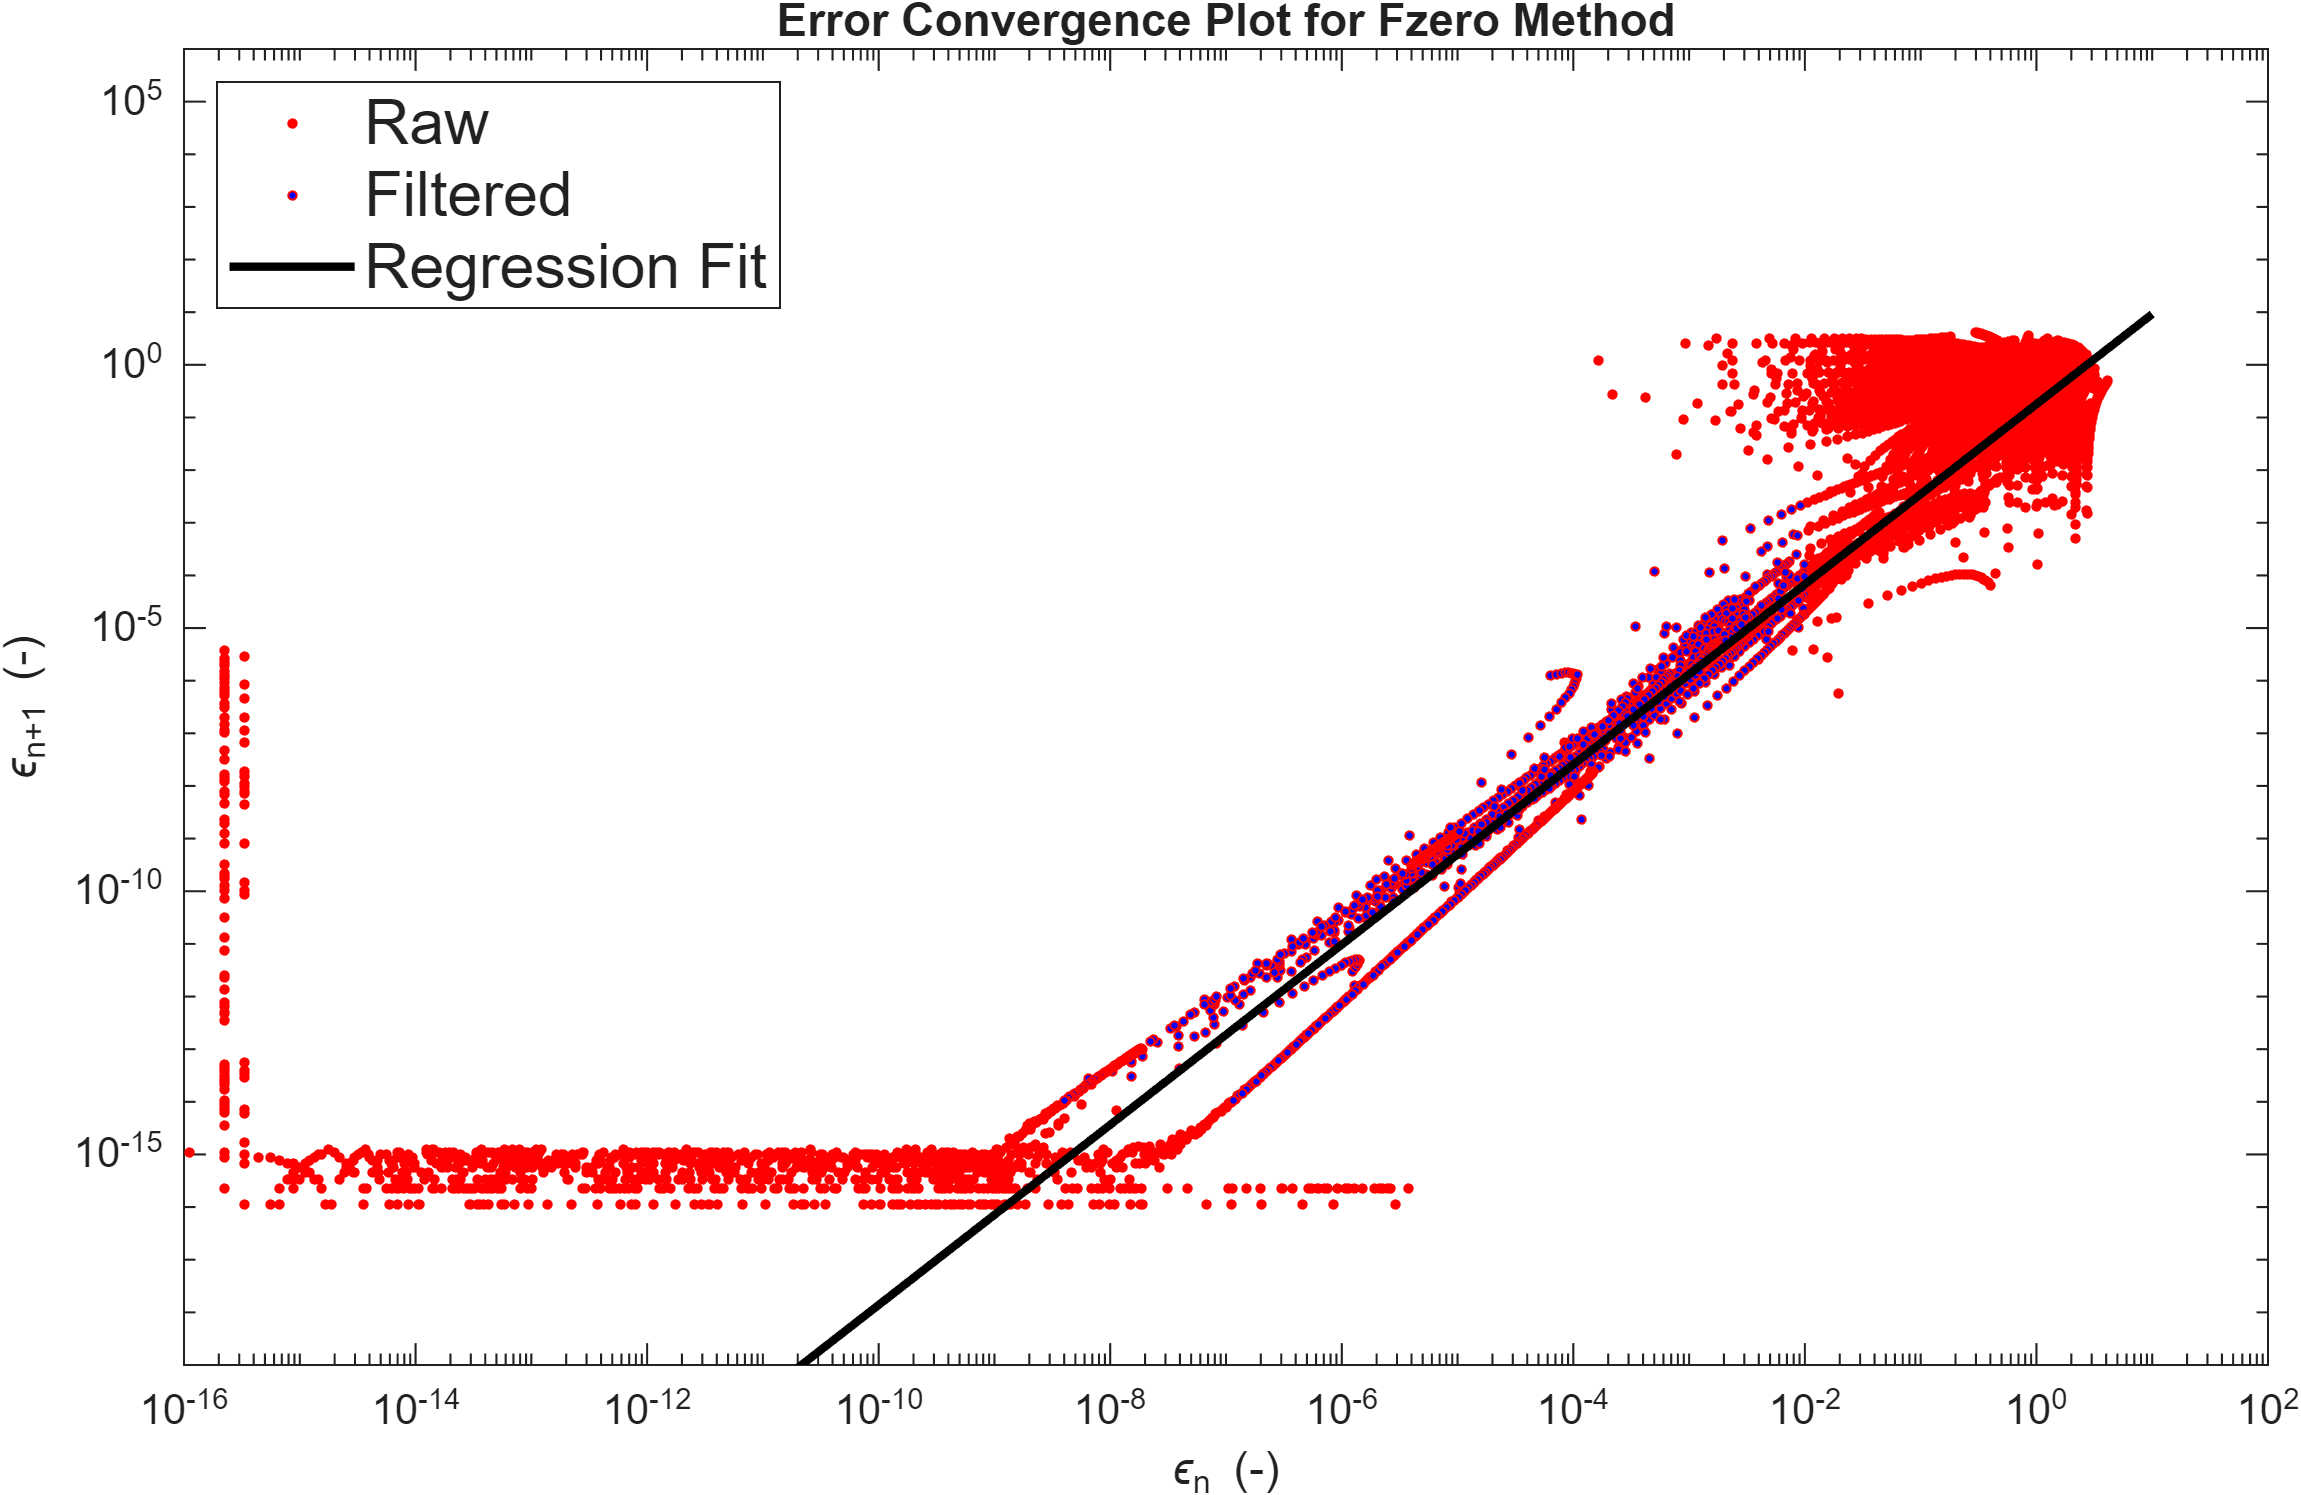
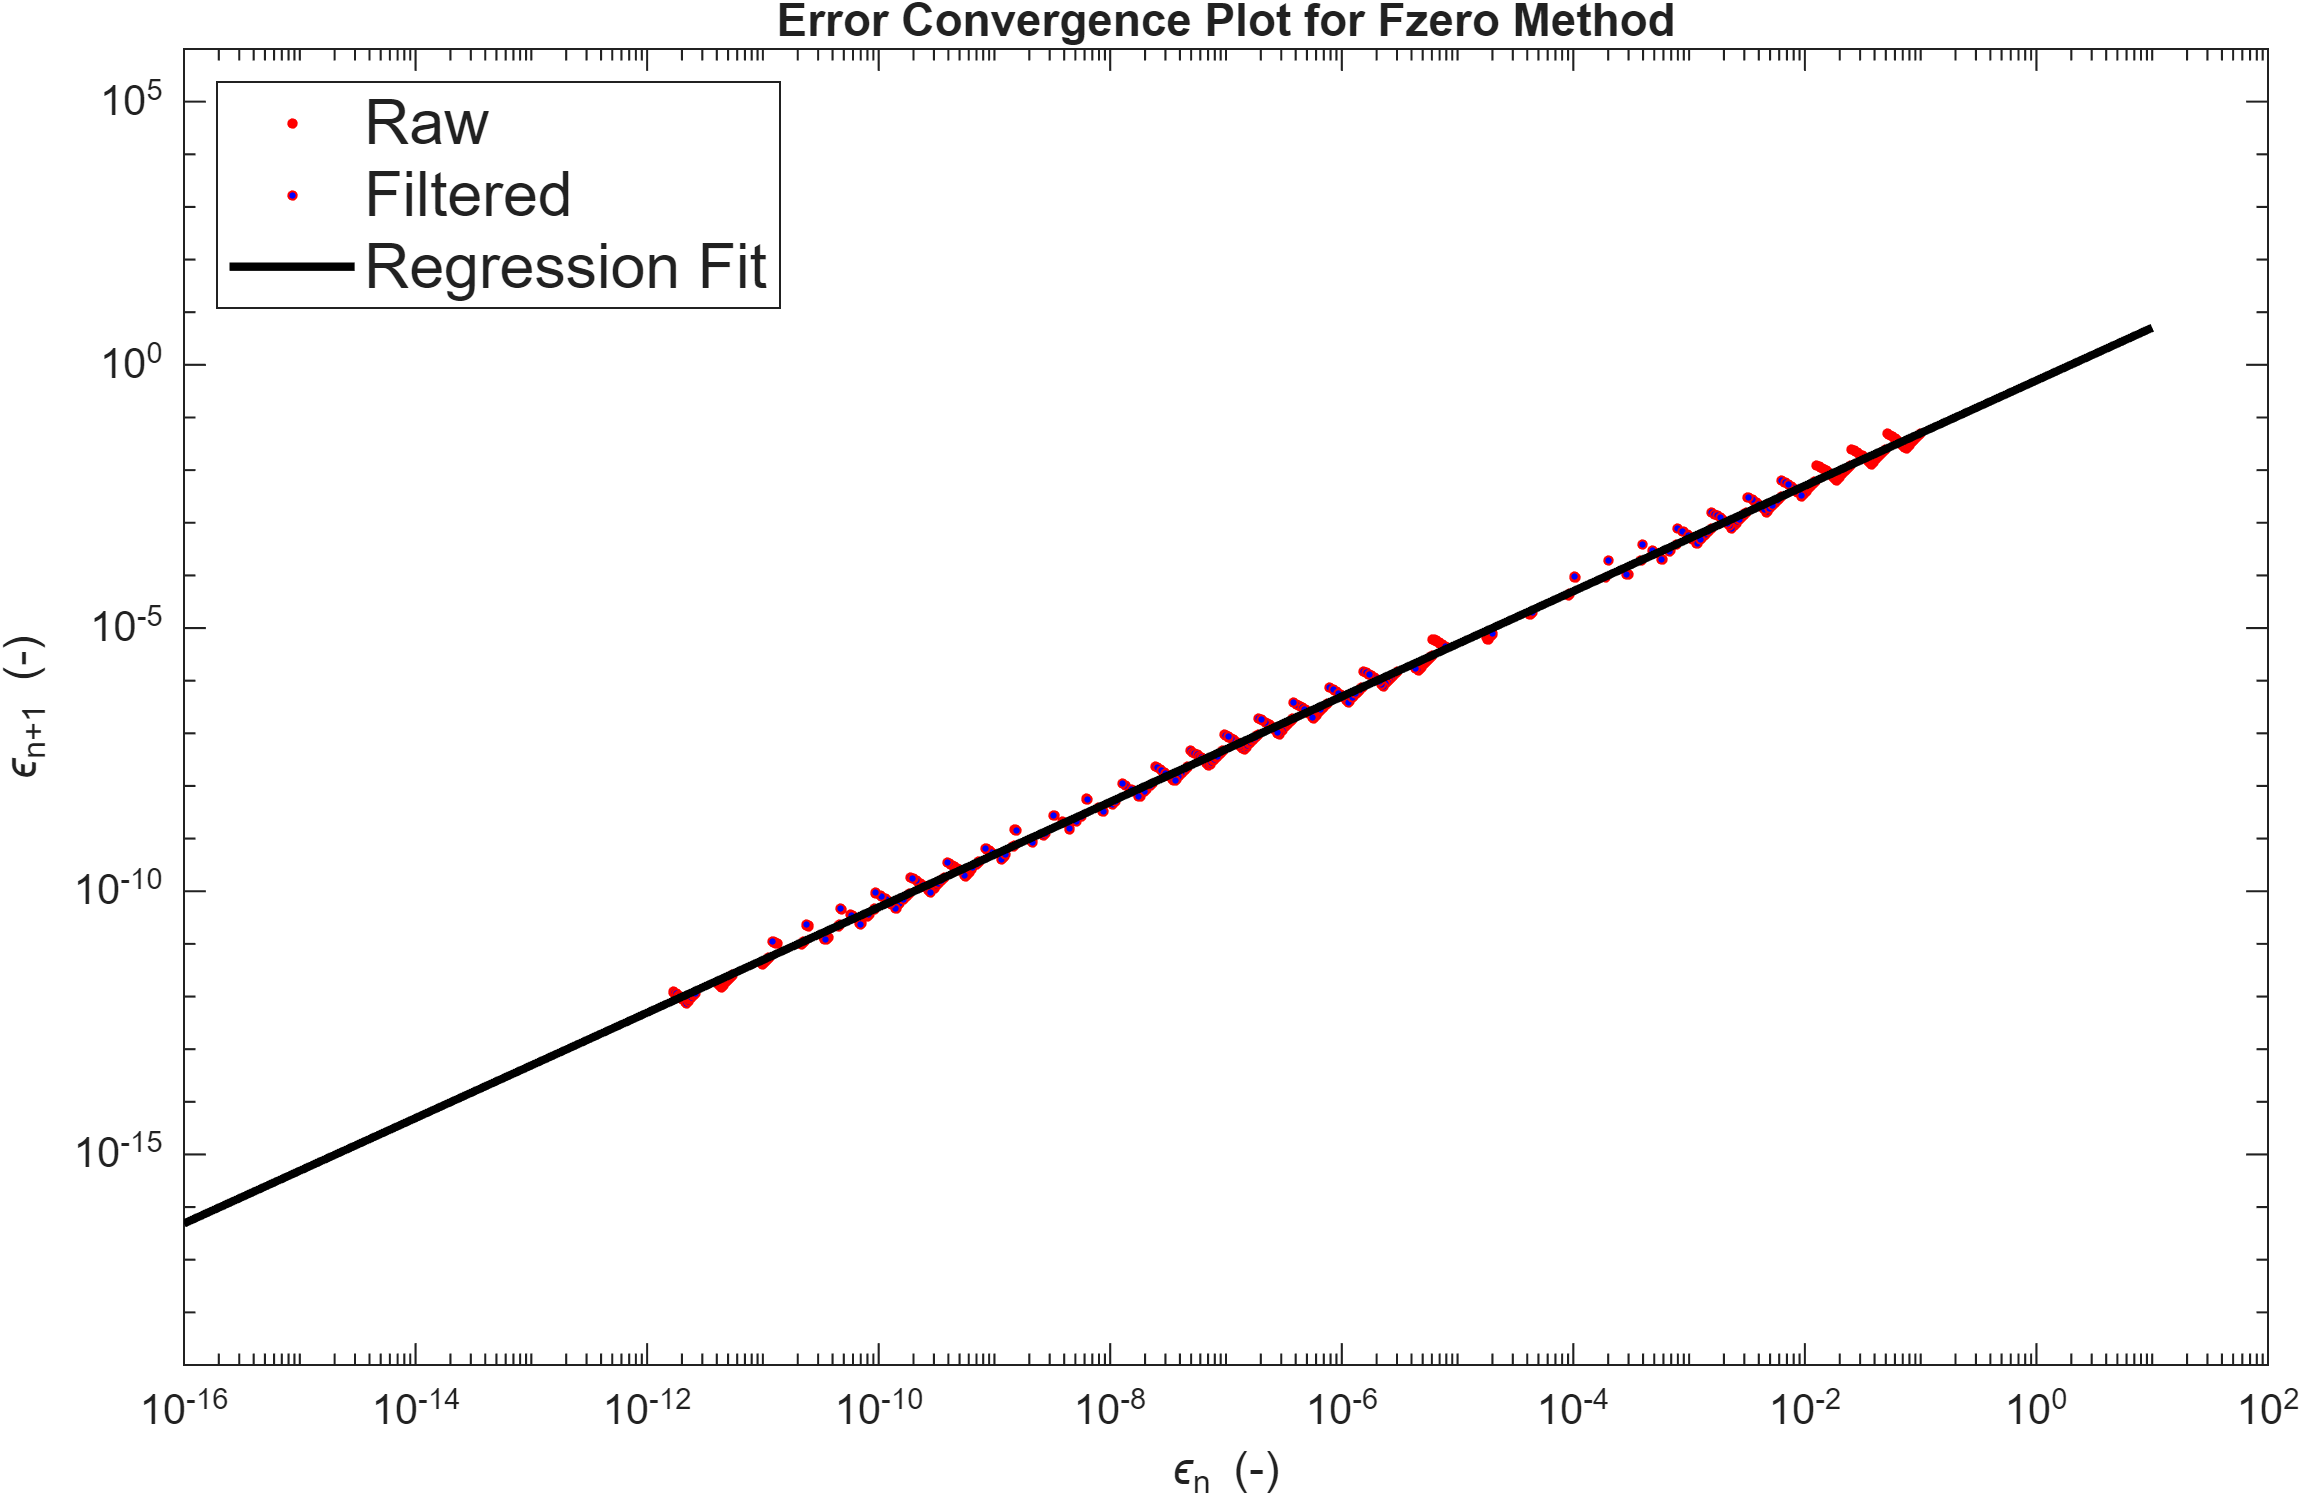
sigmoid and parabola testing

diff --git a/sigmoid_testing.m b/sigmoid_testing.m
@@ -1,0 +1,148 @@
+x_guess = linspace(0, 50, 1000);
+
+dxtol = 1e-12;
+ftol = 1e-12;
+max_iter = 2000;
+dxmax = 1e10;
+
+% NEWTON 
+x_newt_good = [];
+y_newt_good = [];
+x_newt_bad = [];
+y_newt_bad = [];
+target_root = fzero(@sigmoid, 30);
+
+for i=1:length(x_guess)
+    [x, exit_flag] = newton(@sigmoid,x_guess(i),dxtol,ftol,max_iter,dxmax);
+
+    if abs(x - target_root) < ftol
+        x_newt_good = [x_newt_good, x_guess(i)];
+        [y, ~] = sigmoid(x_guess(i));
+        y_newt_good = [y_newt_good, y];
+    else
+        x_newt_bad = [x_newt_bad, x_guess(i)];
+        [y, ~] = sigmoid(x_guess(i));
+        y_newt_bad = [y_newt_bad, y];
+    end
+end
+figure();
+plot_x = linspace(0, 50, 1000);
+[y, ~] = sigmoid(plot_x);
+
+plot(plot_x, y)
+hold on
+plot(x_newt_good, y_newt_good, "ro", 'Color','g')
+plot(x_newt_bad, y_newt_bad, "ro", 'Color','r')
+title("Newton's Method Initial Guess Evaluation")
+ylabel("F(x)")
+xlabel("x")
+legend("Function", "Successful Initial Guesses", "Failed Initial Guesses", Location='northwest')
+hold off
+exportgraphics(gca, 'plots/newton_sigmoid.png', 'Resolution', 300);
+
+% FZERO
+x_fzero_good = [];
+y_fzero_good = [];
+x_fzero_bad = [];
+y_fzero_bad = [];
+target_root = fzero(@sigmoid, 30);
+
+for i=1:length(x_guess)
+    [x, exit_flag] = fzero(@sigmoid,x_guess(i));
+
+    if abs(x - target_root) < ftol
+        x_fzero_good = [x_fzero_good, x_guess(i)];
+        [y, ~] = sigmoid(x_guess(i));
+        y_fzero_good = [y_fzero_good, y];
+    else
+        x_fzero_bad = [x_fzero_bad, x_guess(i)];
+        [y, ~] = sigmoid(x_guess(i));
+        y_fzero_bad = [y_fzero_bad, y];
+    end
+end
+
+figure();
+plot_x = linspace(0, 50, 1000);
+[y, ~] = sigmoid(plot_x);
+
+plot(plot_x, y)
+hold on
+plot(x_fzero_good, y_fzero_good, "ro", 'Color','g')
+plot(x_fzero_bad, y_fzero_bad, "ro", 'Color','r')
+title("Fzero Method Initial Guess Evaluation")
+ylabel("F(x)")
+xlabel("x")
+legend("Function", "Successful Initial Guesses", "Failed Initial Guesses", Location='northwest')
+hold off
+exportgraphics(gca, 'plots/fzero_sigmoid.png', 'Resolution', 300);
+
+% BISECTION
+% x_guess_1 = 50 .* rand(1000);
+% x_guess_2 = 50 .* rand(1000);
+
+x_list = linspace(0,50,50);
+[x_left, x_right] = meshgrid(x_list, x_list);
+
+x_bi_good = [];
+y_bi_good = [];
+x_bi_bad = [];
+y_bi_bad = [];
+target_root = fzero(@sigmoid, 30)
+
+for i=1:length(x_list)^2
+    [x, exit_flag] = bisection(@sigmoid,x_left(i), x_right(i), dxtol,ftol,max_iter);
+    if abs(x - target_root) < 1e-3
+        x_bi_good = [x_bi_good, x_left(i)];
+        y_bi_good = [y_bi_good, x_right(i)];
+    else
+        [x_left(i),x_right(i),x]
+        x_bi_bad = [x_bi_bad, x_left(i)];
+        y_bi_bad = [y_bi_bad, x_right(i)];
+    end
+end
+
+figure();
+hold on
+plot(x_bi_good, y_bi_good, "o", 'MarkerFaceColor','g')
+plot(x_bi_bad, y_bi_bad, "o", 'MarkerFaceColor','r')
+plot(target_root, target_root, "o", "MarkerFaceColor","k")
+title("Bisection Method Initial Guess Evaluation")
+ylabel("x left")
+xlabel("x right")
+legend("Successful Initial Guesses", "Failed Initial Guesses", "Root Location", Location='northwest')
+hold off
+exportgraphics(gca, 'plots/bisection_sigmoid.png', 'Resolution', 300);
+
+%SECANT
+x_list = linspace(0,50,50);
+[x_left, x_right] = meshgrid(x_list, x_list);
+
+x_sec_good = [];
+y_sec_good = [];
+x_sec_bad = [];
+y_sec_bad = [];
+target_root = fzero(@sigmoid, 30)
+
+for i=1:length(x_list)^2
+    [x, exit_flag] = secant(@sigmoid,x_left(i), x_right(i), dxtol,ftol,max_iter, dxmax);
+    if abs(x - target_root) < 1e-3
+        x_sec_good = [x_sec_good, x_left(i)];
+        y_sec_good = [y_sec_good, x_right(i)];
+    else
+        [x_left(i),x_right(i),x]
+        x_sec_bad = [x_sec_bad, x_left(i)];
+        y_sec_bad = [y_sec_bad, x_right(i)];
+    end
+end
+
+figure();
+hold on
+plot(x_sec_good, y_sec_good, "o", 'MarkerFaceColor','g')
+plot(x_sec_bad, y_sec_bad, "o", 'MarkerFaceColor','r')
+title("Secant Method Initial Guess Evaluation")
+ylabel("x left")
+xlabel("x right")
+legend("Successful Initial Guesses", "Failed Initial Guesses", Location='northwest')
+hold off
+exportgraphics(gca, 'plots/secant_sigmoid.png', 'Resolution', 300);
+

diff --git a/convergence_benchmarking.m b/convergence_benchmarking.m
@@ -11,8 +11,11 @@
 function convergence_analysis(solver_flag, fun, ...
 x_guess0, guess_list1, guess_list2, filter_list)
 
-
-    target_root = fzero(fun,x_guess0);
+    dxtol = 1e-12;
+    ftol = 1e-12;
+    max_iter = 200;
+    dxmax = 1e10;
+    target_root = newton(fun,x_guess0,dxtol,ftol,max_iter,dxmax);
      if solver_flag == 2
             [dfdx,d2fdx2] = approximate_derivative(fun,target_root);
             k_pred = abs(0.5*(d2fdx2/dfdx))
@@ -183,11 +186,12 @@ num_iter = 1000;
 i_guess_lower = -5;
 i_guess_upper = 5;
 %iguess = linspace(i_guess_lower, i_guess_upper, num_iter);
-% ref = 0.5;
+ref = .5;
 iguess = linspace(ref-2,ref+2,num_iter);
 % 
 iguess_2 = iguess + 0.1;
 
 filter_list = [1e-15, 1e-2, 1e-14, 1e-2, 2];
+filter_list_parabola = [1e-6, 1e-2, 1e-6, 1e-2, 2];
 
-convergence_analysis(4,@test_function,0.5,iguess,iguess_2,filter_list)
+convergence_analysis(1,@test_function,.5,iguess,iguess_2,filter_list)

diff --git a/bisection.m b/bisection.m
@@ -20,7 +20,7 @@ function [x, exit_flag, guess_list] = bisection_solver(func,x_left,x_right,dxtol
     while abs(func_m) > ftol && abs(x_left - x_right) > dxtol
         x_m = (x_left+x_right)/2;
 
-        func_m = (x_m.^3)/100 - (x_m.^2)/8 + 2*x_m + 6*sin(x_m/2+6) -.7 - exp(x_m/6);
+        func_m = func(x_m);
         % [func_l, ~] = func(x_left);
         %[func_r, ~] = func(x_right);
 

diff --git a/test_function_parabola.m b/test_function_parabola.m
@@ -1,0 +1,8 @@
+%Quadratic function with root at the minimum
+function [f_val,dfdx] = test_function_parabola(x)
+    global input_list;
+    input_list(:,end+1) = x;
+
+    f_val = (x-37.879).^2;
+    dfdx = 2*(x-37.879);
+end

diff --git a/sigmoid.m b/sigmoid.m
@@ -1,0 +1,9 @@
+function [f_val,dfdx] = sigmoid(x)
+    a = 27.3; b = 2; c = 8.3; d = -3;
+    H = exp((x-a)/b);
+    dH = H/b;
+    L = 1+H;
+    dL = dH;
+    f_val = c*H./L+d;
+    dfdx = c*(L.*dH-H.*dL)./(L.^2);
+end
